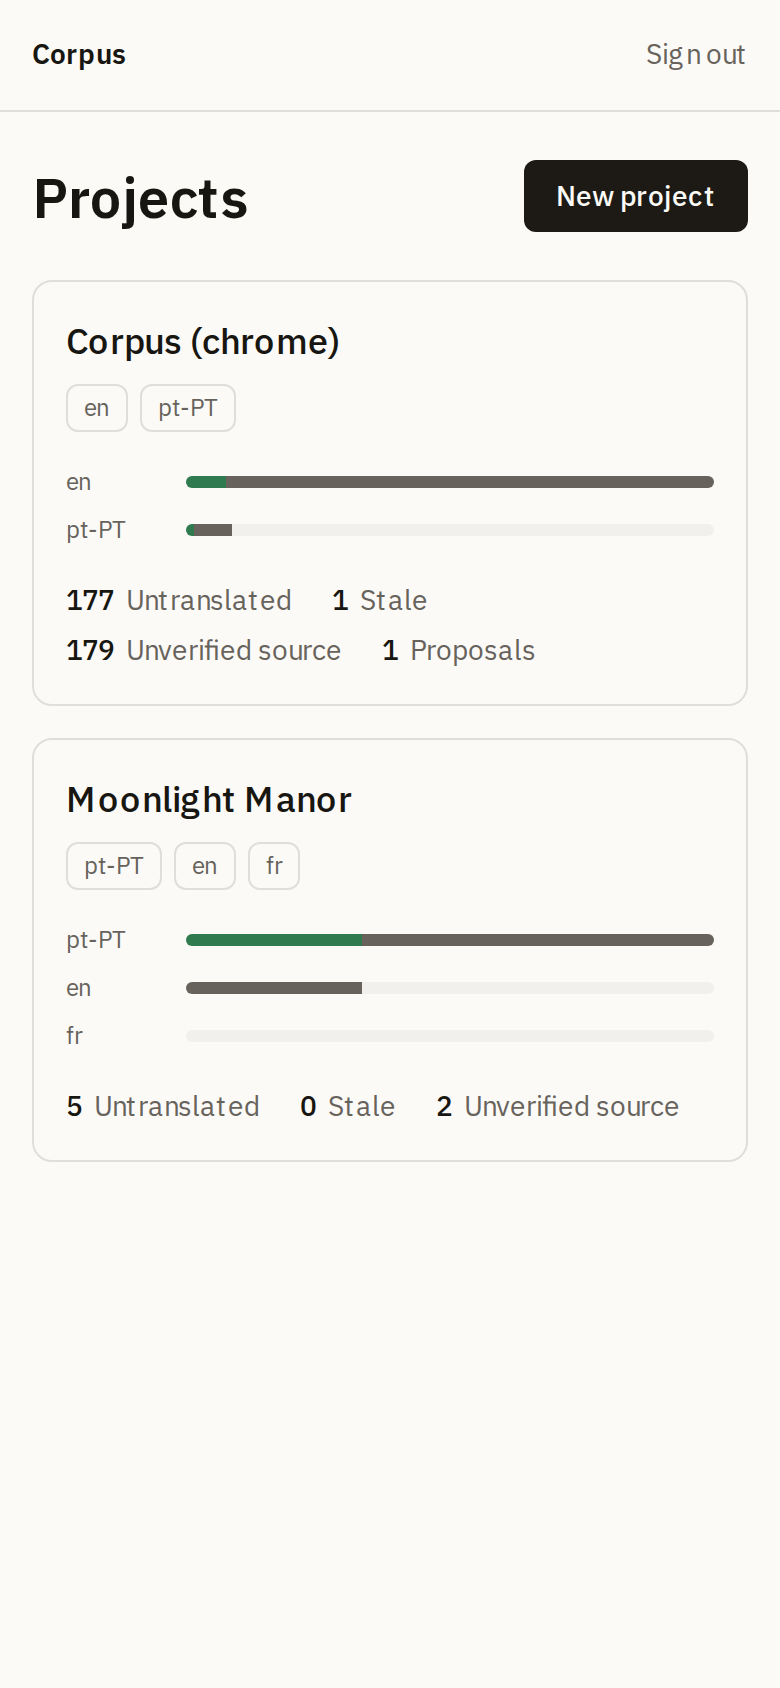
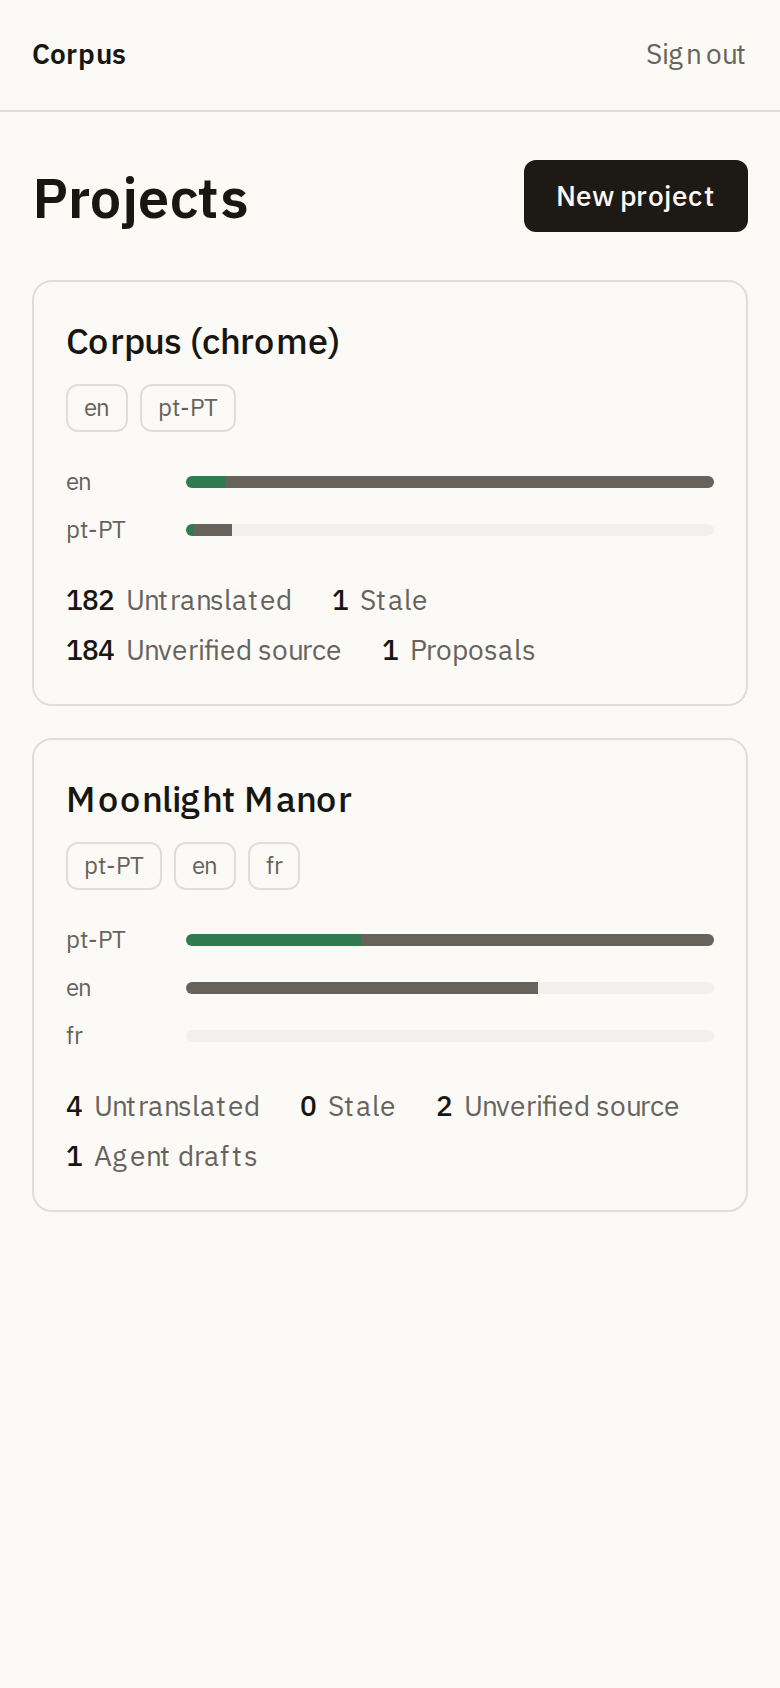
M12 s4: the pass and 0.8.0 (#344) (#351)
* M12 pass and 0.8.0 (#344)

The smoke drives the API as an agent: a draft on an untranslated row,
a refusal on the row ana translated, a proposal; then ana walks the
agent drafts queue, sees the attribution and verifies. The screenshots
gain a string page reached from that queue. §15 says what the CLI test
and the install smoke each drive. CHANGELOG 0.8.0; both packages
bumped.

* Review fixes: the changelog names the language bar, the lock follows

The 0.8.0 section records the language bar under Changed and the link
references move to 0.8.0; the lockfile carries both versions; the home
card's alt text no longer counts the queues. The simplification pass:
eight M12 symbols used only in their own file are no longer exported.

Changed region(s): [[0.4615, 0.5545, 0.6769, 0.6161], [0.0923, 0.6469, 0.3385, 0.7085], [0.0923, 0.3389, 0.1538, 0.4005]]

diff --git a/apps/web/e2e/smoke.spec.ts b/apps/web/e2e/smoke.spec.ts
@@ -125,6 +125,52 @@ test("a maintainer takes a string from pushed to verified on a phone", async ({
   await expect(page.getByText("Removal").first()).toBeVisible();
   await expect(page.getByText("proposed by ana")).toBeVisible();
 
+  // An agent through the API (§10, §15): a draft on an untranslated row,
+  // a refusal on the row ana translated, a proposal; then ana verifies
+  // the draft from the agent drafts queue and sees who drafted it.
+  const agent = (path: string) => `/api/strings/${path}`;
+  const auth = { authorization: `Bearer ${token}` };
+  const drafted = await request.put(
+    agent("skin.heard-nothing/translations/en"),
+    { headers: auth, data: { text: "I heard nothing all night." } },
+  );
+  expect(drafted.ok()).toBeTruthy();
+  expect(await drafted.json()).toMatchObject({
+    state: "translated",
+    actor: `${moonlightManor.project} agent`,
+  });
+  const refused = await request.put(
+    agent("skin.seen-at-greenhouse-window/translations/en"),
+    {
+      headers: auth,
+      data: {
+        text: "{person} was {person_gender, select, m {seen} f {seen}} at the {room_de} window at {hour}.",
+      },
+    },
+  );
+  expect(refused.status()).toBe(409);
+  expect(await refused.json()).toMatchObject({ error: "human-edited" });
+  const proposed = await request.post(agent("ui.continue/proposals"), {
+    headers: auth,
+    data: { kind: "edit", text: "Prosseguir" },
+  });
+  expect(proposed.status()).toBe(201);
+
+  await page.goto(dashboard);
+  await expect(page.getByRole("link", { name: /Agent drafts/ })).toContainText(
+    "1",
+  );
+  await page.getByRole("link", { name: /Agent drafts/ }).click();
+  await page.waitForURL(/queue=agentDrafts/);
+  await expect(
+    page.getByText(`${moonlightManor.project} agent`).first(),
+  ).toBeVisible();
+  await expect(page.getByText("agent", { exact: true })).toBeVisible();
+  await page.getByRole("button", { name: "Mark en as verified" }).click();
+  await page.waitForURL((url) => !url.search.includes("queue=agentDrafts"));
+  await page.goto(dashboard);
+  await expect(page.getByRole("link", { name: /Agent drafts/ })).toHaveCount(0);
+
   // The desktop layouts must not overflow either.
   await page.setViewportSize({ width: 1280, height: 800 });
   await expectNoSidewaysOverflow(page);

diff --git a/packages/cli/src/mcp.ts b/packages/cli/src/mcp.ts
@@ -13,7 +13,7 @@ import { request } from "./server";
 
 export const MCP_USAGE = "corpus mcp";
 
-export const PROTOCOL_VERSIONS = [
+const PROTOCOL_VERSIONS = [
   "2025-11-25",
   "2025-06-18",
   "2025-03-26",
@@ -21,7 +21,7 @@ export const PROTOCOL_VERSIONS = [
 ];
 
 // What an agent is told at initialize: the rules of §10 in its own terms.
-export const INSTRUCTIONS =
+const INSTRUCTIONS =
   "Corpus holds this repository's strings and their translations. A draft you save lands on an untranslated row, a stale row or your own earlier draft; a row a person edited refuses with human-edited, so propose a change instead of retrying. Every draft is attributed to the project's agent actor and waits for a maintainer to verify it; you cannot verify. Placeholders and selects must survive translation.";
 
 type JsonSchema = {
@@ -34,7 +34,7 @@ type JsonSchema = {
   additionalProperties: false;
 };
 
-export type ToolResult = {
+type ToolResult = {
   content: { type: "text"; text: string }[];
   structuredContent?: Record<string, unknown>;
   isError?: boolean;
@@ -49,7 +49,7 @@ type Tool = {
 
 // One API call with the token; a 2xx is the body, anything else a tool
 // error carrying the server's error and message.
-export type Api = (
+type Api = (
   method: "GET" | "POST" | "PUT",
   path: string,
   body?: unknown,

diff --git a/apps/web/e2e/screenshots.ts b/apps/web/e2e/screenshots.ts
@@ -223,6 +223,21 @@ async function main(): Promise<void> {
     "Continue",
   );
 
+  // An agent's draft through the API (§10), captured from the agent
+  // drafts queue with its attribution in the history.
+  await page.request.put(
+    `${base}/api/strings/skin.heard-nothing/translations/en`,
+    {
+      headers: { authorization: `Bearer ${token}` },
+      data: { text: "I heard nothing all night." },
+    },
+  );
+  await page.goto(
+    string("skin.heard-nothing", "queue=agentDrafts&language=en"),
+    { waitUntil: "networkidle" },
+  );
+  await shot("agent-draft");
+
   await page.goto(
     string("skin.seen-at-greenhouse-window", "queue=untranslated&language=en"),
     { waitUntil: "networkidle" },

diff --git a/apps/web/src/agents/actor.ts b/apps/web/src/agents/actor.ts
@@ -6,7 +6,7 @@ import { eq } from "drizzle-orm";
 import type { Db } from "@/db";
 import { users } from "@/db/schema";
 
-export const AGENT_SUFFIX = " agent";
+const AGENT_SUFFIX = " agent";
 
 export function agentName(slug: string): string {
   return `${slug}${AGENT_SUFFIX}`;
@@ -18,7 +18,7 @@ export function isAgentName(name: string): boolean {
   return name.endsWith(AGENT_SUFFIX);
 }
 
-export type AgentActor = { id: number; name: string; maintainer: false };
+type AgentActor = { id: number; name: string; maintainer: false };
 
 export function ensureAgentActor(
   db: Db,

diff --git a/apps/web/src/agents/draft.ts b/apps/web/src/agents/draft.ts
@@ -10,7 +10,7 @@ import { applyTransition } from "@/translations/service";
 import { validationMessage } from "@/translations/validation-message";
 import { ensureAgentActor } from "./actor";
 
-export type DraftRefusal =
+type DraftRefusal =
   | { reason: "not-found" }
   | { reason: "unknown-language" }
   | { reason: "source-row" }
@@ -19,7 +19,7 @@ export type DraftRefusal =
   | { reason: "invalid-translation"; message: string }
   | { reason: "human-edited" };
 
-export type DraftResult =
+type DraftResult =
   | {
       ok: true;
       key: string;

diff --git a/README.md b/README.md
@@ -124,6 +124,13 @@ The catalogue is the inventory, and anyone on the instance can propose a change 
   </picture>
 </p>
 
+<p align="center">
+  <picture>
+    <source media="(prefers-color-scheme: dark)" srcset="docs/screenshots/agent-draft-desktop-dark.png">
+    <img src="docs/screenshots/agent-draft-desktop-light.png" width="960" alt="A string page reached from the agent drafts queue: the English draft an agent saved through the API, its chip marked agent, the verify button for the maintainer, and the history naming the project's agent actor.">
+  </picture>
+</p>
+
 ## Work with an agent
 
 `corpus mcp` starts a [Model Context Protocol](https://modelcontextprotocol.io) server on stdio from the repository, reading the config and the token like every other command, so an agent in the repository works inside the project with no browser. In Claude Code:
@@ -163,7 +170,7 @@ Source text and metadata belong to the repository, which wins once merged; Corpu
 
 | Surface   | What it is for                                                                                                                                            |
 | --------- | --------------------------------------------------------------------------------------------------------------------------------------------------------- |
-| Dashboard | The three queues (untranslated, stale, unverified source) and per-language progress by string type. A translator never wonders what to work on.           |
+| Dashboard | The queues (untranslated, stale, unverified source, and agent drafts once there are any) and per-language progress by string type. A translator never wonders what to work on. |
 | Catalogue | Every string, searched (accent-insensitive full text) and filtered by type, state, language, and the project's own metadata.                              |
 | Editor    | The source with its branches, placeholders, metadata, entities and examples on one side; the draft with chips, validation and live previews on the other. |
 | Entities  | Read-only cards for the characters, rooms and other objects the strings refer to.                                                                         |
@@ -190,7 +197,7 @@ Source text and metadata belong to the repository, which wins once merged; Corpu
 <p align="center">
   <picture>
     <source media="(prefers-color-scheme: dark)" srcset="docs/screenshots/home-desktop-dark.png">
-    <img src="docs/screenshots/home-desktop-light.png" width="960" alt="The home page: one card per project with its languages, a progress bar per language, and the three queue counts; a New project button for maintainers.">
+    <img src="docs/screenshots/home-desktop-light.png" width="960" alt="The home page: one card per project with its languages, a progress bar per language, and the queue counts; a New project button for maintainers.">
   </picture>
   <picture>
     <source media="(prefers-color-scheme: dark)" srcset="docs/screenshots/editor-desktop-dark.png">

diff --git a/CHANGELOG.md b/CHANGELOG.md
@@ -7,6 +7,22 @@ contract (`corpus/1`) is the only one.
 
 ## [Unreleased]
 
+## [0.8.0] - 2026-09-15
+
+Agents draft; people verify.
+
+### Added
+
+- The project token reads and drafts (§10): `GET /api/queues`, `GET /api/strings/<key>`, `PUT /api/strings/<key>/translations/<lang>`, `POST /api/strings/<key>/proposals` and `POST /api/proposals`, under three rules. An agent never overwrites a person's current work: a draft lands on an untranslated row, a stale row or the agent's own earlier draft, and a row a person edited (or push seeded) answers `409 human-edited`. Every draft is attributed to the project's agent actor, `<slug> agent`, a user that never signs in, shown as such in the history, the chips and the settings list. Nothing but a signed-in maintainer verifies: the token has no verify route.
+- A fourth queue, **agent drafts**, on the dashboard and the home card once the project has any: the translated rows the agent last edited, for a maintainer to walk and verify.
+- `corpus mcp` starts a Model Context Protocol server on stdio from the repository, reading the config and the token like every other command, with seven tools that are one API call each: `list_queue`, `get_string`, `save_draft`, `propose_change`, `propose_removal`, `add_string` and `status`. Refusals come back as tool errors with the server's message. The README says how to connect Claude Code or any MCP client. Corpus runs no model; the model stays on the agent's side.
+- The contract carries the agent surface's bodies and responses; still `corpus/1`.
+
+### Changed
+
+- A language bar at the top of the string page, inside the queue bar on a desktop, is the editor's switcher: one segment per language, the selected one solid, the source language first with its verified mark. The state chips are display only.
+- The join form refuses any name ending in ` agent`, the name family reserved for agent actors.
+
 ## [0.7.0] - 2026-09-15
 
 Corpus proposes source strings.
@@ -119,7 +135,8 @@ The first published version.
 - The `messages`, `table` and `exec` adapters, and the `corpus/1` snapshot contract with its ICU subset (placeholders and `select`).
 - The package ships plain JavaScript for Node 22 with type declarations; a client's config imports `defineCorpus` from `@corpus-tool/cli`.
 
-[Unreleased]: https://github.com/miguelaguiar01/corpus/compare/v0.7.0...HEAD
+[Unreleased]: https://github.com/miguelaguiar01/corpus/compare/v0.8.0...HEAD
+[0.8.0]: https://github.com/miguelaguiar01/corpus/releases/tag/v0.8.0
 [0.7.0]: https://github.com/miguelaguiar01/corpus/releases/tag/v0.7.0
 [0.6.0]: https://github.com/miguelaguiar01/corpus/releases/tag/v0.6.0
 [0.5.0]: https://github.com/miguelaguiar01/corpus/releases/tag/v0.5.0

diff --git a/docs/corpus-design.md b/docs/corpus-design.md
@@ -344,7 +344,7 @@ Code:
 - **Diff semantics:** table-driven tests for §8's four cases, including stale marking, archive/unarchive, and seed-ignored-after-edit.
 - **Validation:** the placeholder/select rule table (§5, §7 — placeholders must survive; selects may collapse entirely but not be malformed; branch keys must match source when present) as pure unit tests, enforced client- and server-side.
 - **UI:** component tests for the editor's validation feedback; **one Playwright smoke** (invite → dashboard → queue → translate with placeholder chips → verify as maintainer → progress updates) running in CI from the first milestone that has an editor.
-- **Agents:** the smoke drives the API as an agent (a draft on an `untranslated` row, a refusal on a row a person edited, a proposal) and then, as a maintainer, opens the *agent drafts* queue and verifies the draft, seeing the attribution; a CLI test drives `corpus mcp` over stdio with the protocol's own client against the in-process server and exercises every tool.
+- **Agents:** the smoke drives the API as an agent (a draft on an `untranslated` row, a refusal on a row a person edited, a proposal) and then, as a maintainer, opens the *agent drafts* queue and verifies the draft, seeing the attribution; a CLI test drives `corpus mcp` with the protocol's own client over a stream pair, as stdio carries it, against a recording stand-in for the API and exercises every tool; the install smoke drives the installed binary over stdio.
 - **Dogfood CI job** as §12 — a living integration test on every build.
 
 ---
